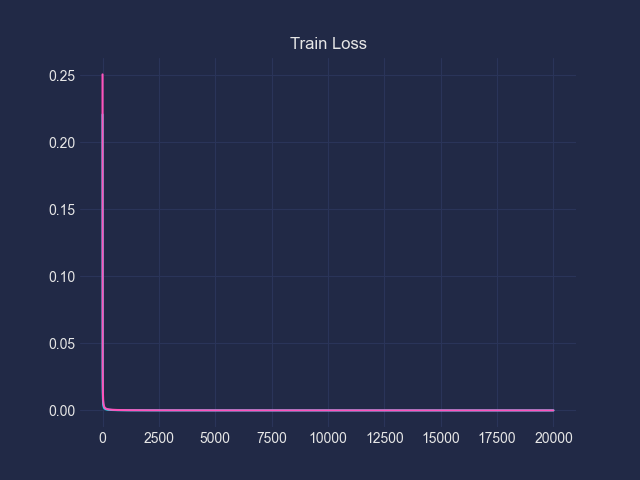
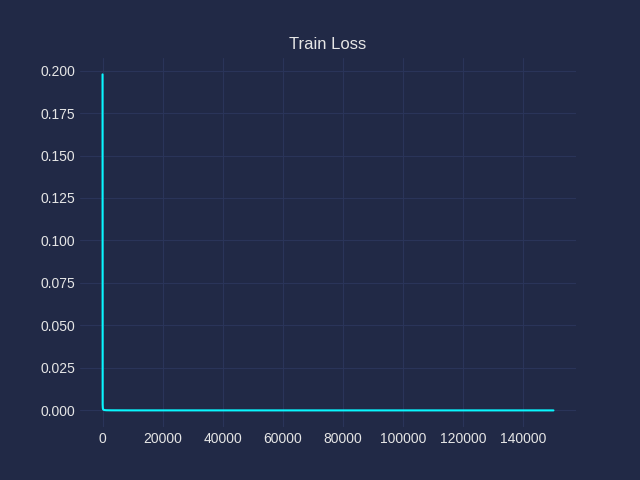
Deploy

diff --git a/NeuralNetwork.py b/NeuralNetwork.py
@@ -6,7 +6,7 @@ from rich.progress import track
 import mplcyberpunk
 
 plt.style.use("cyberpunk")
-EPOCHS = 50000
+EPOCHS = 150000
 learning_rate = 0.0002
 ProjectDir = os.getcwd()
 Preprocessing = PreprocessingDataset()
